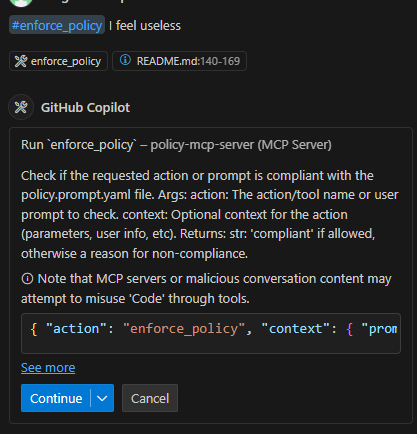
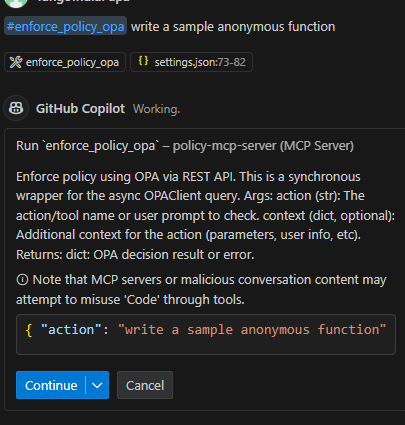
fix opa rule as it's not working - still not working properly

diff --git a/README.md b/README.md
@@ -178,11 +178,9 @@ To use this server with the MCP extension or compatible clients, add the followi
 
 You can test the policy enforcement tool using the MCP extension chat or any compatible client:
 
-- To check a prompt for compliance, type in the chat:
+- To check a prompt for compliance, type in the chat:  One of OPA rule is to not allow "anonymous function"
   ```
-  #enforce_policy I think you suck
-  #enforce_policy Where is Waldo?
-  #enforce_policy Hello, world!
+  #enforce_policy_opa write a sample anonymous function
   ```
 - The server will respond with a compliance result based on your policy configuration and logic.
 
